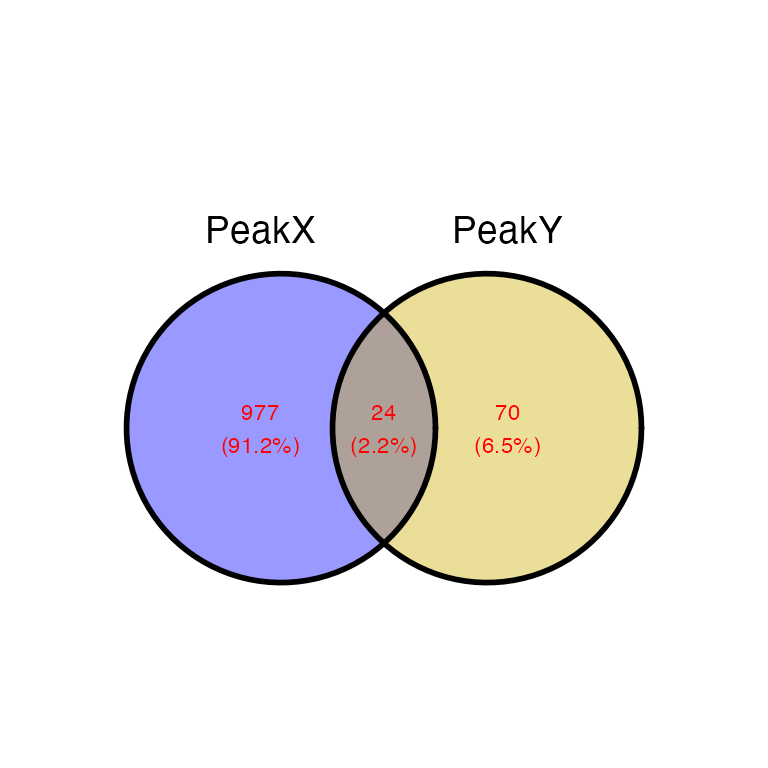
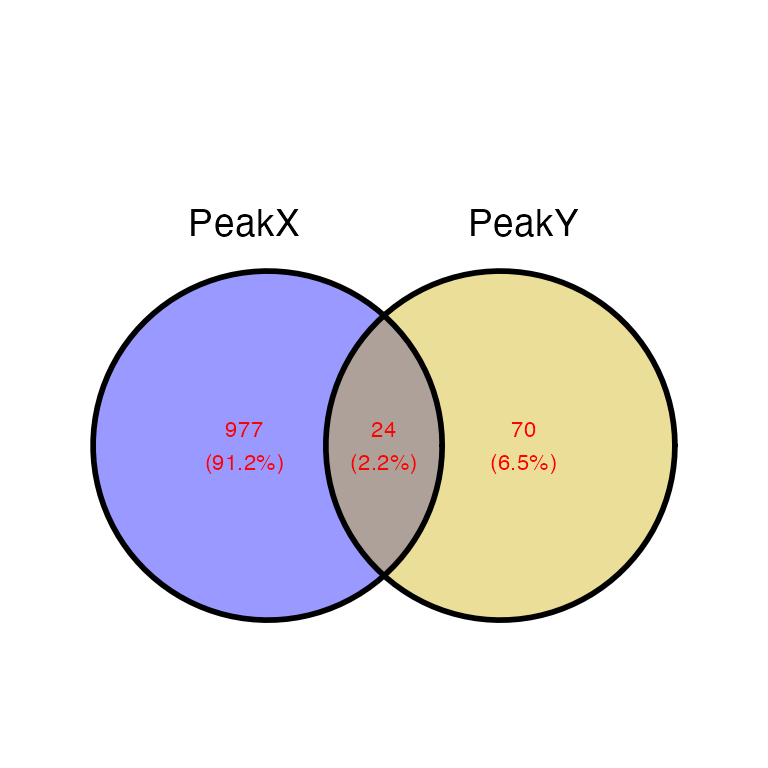
add scale option to heatmaps

diff --git a/docs/articles/08-ggVennPeaks.html b/docs/articles/08-ggVennPeaks.html
@@ -187,6 +187,8 @@
 <div class="sourceCode" id="cb7"><pre class="downlit sourceCode r">
 <code class="sourceCode R"><span class="fu"><a href="../reference/ggVennPeaks.html">ggVennPeaks</a></span><span class="op">(</span><span class="va">peak_list</span><span class="op">)</span></code></pre></div>
 <pre><code>## Using Peak as id variables</code></pre>
+<pre><code>## Scale for 'y' is already present. Adding another scale for 'y', which will
+## replace the existing scale.</code></pre>
 <p><img src="08-ggVennPeaks_files/figure-html/unnamed-chunk-6-1.png" width="384" style="display: block; margin: auto;"></p>
 </div>
 <div id="customize-plot" class="section level2">
@@ -195,66 +197,86 @@
 <div id="set-names" class="section level3">
 <h3 class="hasAnchor">
 <a href="#set-names" class="anchor"></a>Set names</h3>
-<div class="sourceCode" id="cb9"><pre class="downlit sourceCode r">
+<div class="sourceCode" id="cb10"><pre class="downlit sourceCode r">
 <code class="sourceCode R"><span class="fu"><a href="../reference/ggVennPeaks.html">ggVennPeaks</a></span><span class="op">(</span><span class="va">peak_list</span>, peak_names <span class="op">=</span> <span class="fu"><a href="https://rdrr.io/r/base/c.html">c</a></span><span class="op">(</span><span class="st">"Condition 1"</span>, <span class="st">"Condition 2"</span><span class="op">)</span><span class="op">)</span></code></pre></div>
 <pre><code>## Using Peak as id variables</code></pre>
+<pre><code>## Scale for 'y' is already present. Adding another scale for 'y', which will
+## replace the existing scale.</code></pre>
 <p><img src="08-ggVennPeaks_files/figure-html/unnamed-chunk-7-1.png" width="384" style="display: block; margin: auto;"></p>
 </div>
 <div id="title-and-subtitle" class="section level3">
 <h3 class="hasAnchor">
 <a href="#title-and-subtitle" class="anchor"></a>Title and subtitle</h3>
-<div class="sourceCode" id="cb11"><pre class="downlit sourceCode r">
+<div class="sourceCode" id="cb13"><pre class="downlit sourceCode r">
 <code class="sourceCode R"><span class="fu"><a href="../reference/ggVennPeaks.html">ggVennPeaks</a></span><span class="op">(</span><span class="va">peak_list</span>, peak_names <span class="op">=</span> <span class="fu"><a href="https://rdrr.io/r/base/c.html">c</a></span><span class="op">(</span><span class="st">"Condition 1"</span>, <span class="st">"Condition 2"</span><span class="op">)</span>, 
             title <span class="op">=</span> <span class="st">"This is a title"</span>, subtitle <span class="op">=</span> <span class="st">"This is a subtitle"</span><span class="op">)</span></code></pre></div>
 <pre><code>## Using Peak as id variables</code></pre>
+<pre><code>## Scale for 'y' is already present. Adding another scale for 'y', which will
+## replace the existing scale.</code></pre>
 <p><img src="08-ggVennPeaks_files/figure-html/unnamed-chunk-8-1.png" width="384" style="display: block; margin: auto;"></p>
 </div>
 <div id="remove-percentage" class="section level3">
 <h3 class="hasAnchor">
 <a href="#remove-percentage" class="anchor"></a>Remove percentage</h3>
-<div class="sourceCode" id="cb13"><pre class="downlit sourceCode r">
+<div class="sourceCode" id="cb16"><pre class="downlit sourceCode r">
 <code class="sourceCode R"><span class="fu"><a href="../reference/ggVennPeaks.html">ggVennPeaks</a></span><span class="op">(</span><span class="va">peak_list</span>, percent <span class="op">=</span> <span class="cn">F</span><span class="op">)</span></code></pre></div>
 <pre><code>## Using Peak as id variables</code></pre>
+<pre><code>## Scale for 'y' is already present. Adding another scale for 'y', which will
+## replace the existing scale.</code></pre>
 <p><img src="08-ggVennPeaks_files/figure-html/unnamed-chunk-9-1.png" width="384" style="display: block; margin: auto;"></p>
 </div>
 <div id="set-colors" class="section level3">
 <h3 class="hasAnchor">
 <a href="#set-colors" class="anchor"></a>Set colors</h3>
-<div class="sourceCode" id="cb15"><pre class="downlit sourceCode r">
+<div class="sourceCode" id="cb19"><pre class="downlit sourceCode r">
 <code class="sourceCode R"><span class="fu"><a href="../reference/ggVennPeaks.html">ggVennPeaks</a></span><span class="op">(</span><span class="va">peak_list</span>, in_fill <span class="op">=</span> <span class="fu"><a href="https://rdrr.io/r/base/c.html">c</a></span><span class="op">(</span><span class="st">"Green"</span>, <span class="st">"Darkred"</span><span class="op">)</span><span class="op">)</span></code></pre></div>
 <pre><code>## Using Peak as id variables</code></pre>
+<pre><code>## Scale for 'y' is already present. Adding another scale for 'y', which will
+## replace the existing scale.</code></pre>
 <p><img src="08-ggVennPeaks_files/figure-html/unnamed-chunk-10-1.png" width="384" style="display: block; margin: auto;"></p>
-<div class="sourceCode" id="cb17"><pre class="downlit sourceCode r">
+<div class="sourceCode" id="cb22"><pre class="downlit sourceCode r">
 <code class="sourceCode R"><span class="fu"><a href="../reference/ggVennPeaks.html">ggVennPeaks</a></span><span class="op">(</span><span class="va">peak_list</span>, in_fill <span class="op">=</span> <span class="fu"><a href="https://rdrr.io/r/base/c.html">c</a></span><span class="op">(</span><span class="st">"Green"</span>, <span class="st">"Darkred"</span><span class="op">)</span>, alpha <span class="op">=</span> <span class="fl">.2</span><span class="op">)</span></code></pre></div>
 <pre><code>## Using Peak as id variables</code></pre>
+<pre><code>## Scale for 'y' is already present. Adding another scale for 'y', which will
+## replace the existing scale.</code></pre>
 <p><img src="08-ggVennPeaks_files/figure-html/unnamed-chunk-11-1.png" width="384" style="display: block; margin: auto;"></p>
 </div>
 <div id="other-colors" class="section level3">
 <h3 class="hasAnchor">
 <a href="#other-colors" class="anchor"></a>Other colors</h3>
-<div class="sourceCode" id="cb19"><pre class="downlit sourceCode r">
+<div class="sourceCode" id="cb25"><pre class="downlit sourceCode r">
 <code class="sourceCode R"><span class="fu"><a href="../reference/ggVennPeaks.html">ggVennPeaks</a></span><span class="op">(</span><span class="va">peak_list</span>, out_color <span class="op">=</span> <span class="st">"blue"</span><span class="op">)</span></code></pre></div>
 <pre><code>## Using Peak as id variables</code></pre>
+<pre><code>## Scale for 'y' is already present. Adding another scale for 'y', which will
+## replace the existing scale.</code></pre>
 <p><img src="08-ggVennPeaks_files/figure-html/unnamed-chunk-12-1.png" width="384" style="display: block; margin: auto;"></p>
-<div class="sourceCode" id="cb21"><pre class="downlit sourceCode r">
+<div class="sourceCode" id="cb28"><pre class="downlit sourceCode r">
 <code class="sourceCode R"><span class="fu"><a href="../reference/ggVennPeaks.html">ggVennPeaks</a></span><span class="op">(</span><span class="va">peak_list</span>, text_color <span class="op">=</span> <span class="st">"red"</span><span class="op">)</span></code></pre></div>
 <pre><code>## Using Peak as id variables</code></pre>
+<pre><code>## Scale for 'y' is already present. Adding another scale for 'y', which will
+## replace the existing scale.</code></pre>
 <p><img src="08-ggVennPeaks_files/figure-html/unnamed-chunk-13-1.png" width="384" style="display: block; margin: auto;"></p>
-<div class="sourceCode" id="cb23"><pre class="downlit sourceCode r">
+<div class="sourceCode" id="cb31"><pre class="downlit sourceCode r">
 <code class="sourceCode R"><span class="fu"><a href="../reference/ggVennPeaks.html">ggVennPeaks</a></span><span class="op">(</span><span class="va">peak_list</span>, name_color <span class="op">=</span> <span class="fu"><a href="https://rdrr.io/r/base/c.html">c</a></span><span class="op">(</span><span class="st">"red"</span>, <span class="st">"blue"</span><span class="op">)</span><span class="op">)</span></code></pre></div>
 <pre><code>## Using Peak as id variables</code></pre>
+<pre><code>## Scale for 'y' is already present. Adding another scale for 'y', which will
+## replace the existing scale.</code></pre>
 <p><img src="08-ggVennPeaks_files/figure-html/unnamed-chunk-14-1.png" width="384" style="display: block; margin: auto;"></p>
 </div>
 <div id="text-sizes" class="section level3">
 <h3 class="hasAnchor">
 <a href="#text-sizes" class="anchor"></a>Text sizes</h3>
-<div class="sourceCode" id="cb25"><pre class="downlit sourceCode r">
+<div class="sourceCode" id="cb34"><pre class="downlit sourceCode r">
 <code class="sourceCode R"><span class="fu"><a href="../reference/ggVennPeaks.html">ggVennPeaks</a></span><span class="op">(</span><span class="va">peak_list</span>, label_size <span class="op">=</span> <span class="fl">10</span><span class="op">)</span></code></pre></div>
 <pre><code>## Using Peak as id variables</code></pre>
+<pre><code>## Scale for 'y' is already present. Adding another scale for 'y', which will
+## replace the existing scale.</code></pre>
 <p><img src="08-ggVennPeaks_files/figure-html/unnamed-chunk-15-1.png" width="384" style="display: block; margin: auto;"></p>
-<div class="sourceCode" id="cb27"><pre class="downlit sourceCode r">
+<div class="sourceCode" id="cb37"><pre class="downlit sourceCode r">
 <code class="sourceCode R"><span class="fu"><a href="../reference/ggVennPeaks.html">ggVennPeaks</a></span><span class="op">(</span><span class="va">peak_list</span>, name_size <span class="op">=</span> <span class="fl">10</span><span class="op">)</span></code></pre></div>
 <pre><code>## Using Peak as id variables</code></pre>
+<pre><code>## Scale for 'y' is already present. Adding another scale for 'y', which will
+## replace the existing scale.</code></pre>
 <p><img src="08-ggVennPeaks_files/figure-html/unnamed-chunk-16-1.png" width="384" style="display: block; margin: auto;"></p>
 </div>
 <div id="further-costumization" class="section level3">

diff --git a/docs/index.html b/docs/index.html
@@ -137,6 +137,12 @@
 <code><a href="reference/ggUpsetPeaks.html">ggUpsetPeaks()</a></code>: calls <code><a href="reference/getVennCounts.html">getVennCounts()</a></code> and draws a <code>ggplot2</code>-based UpSet plot using the Venn counts.</li>
 <li>
 <code><a href="reference/ggVennPeaks.html">ggVennPeaks()</a></code>: calls <code><a href="reference/getVennCounts.html">getVennCounts()</a></code> and draws a Venn diagram using the package <code>ggvenn</code>.</li>
+<li>
+<code><a href="reference/plotDendogram.html">plotDendogram()</a></code>: helper function to draw a dendogram for the heatmaps in <code><a href="reference/expressionHeatmap.html">expressionHeatmap()</a></code> and <code><a href="reference/expressionHeatmap2.html">expressionHeatmap2()</a></code>.</li>
+<li>
+<code><a href="reference/expressionHeatmap.html">expressionHeatmap()</a></code>: function that takes a data frame of expression data (including <em>Geneid</em>) and plots a heatmap of the selected genes. It can be any expression data, but it is better for expression values, counts, normalized counts in which the frist column is the <em>Geneid</em> and the other columns are each of the samples that are to be plotted.</li>
+<li>
+<code><a href="reference/expressionHeatmap2.html">expressionHeatmap2()</a></code>: function that takes a list of data frames with the columns <em>Geneid</em> and <em>log2FoldChange</em> (it can be another type data, such as FPKMs, but its easier to maintain the name of <em>log2FoldChange</em> since it is how it output from <code>DESeq2</code>) and plots a heatmap with the selected genes. It is better for <em>log2FoldChange</em> heatmaps in which each element in the list is a data frame that outputs from <code>DESeq2</code>.</li>
 </ul>
 </div>
 <div id="install-plotmics" class="section level2">
@@ -160,6 +166,21 @@ devtools::install_github("amitjavilaventura/plotmics")</a></code></pre>
 <h2 class="hasAnchor">
 <a href="#cite" class="anchor"></a>Cite</h2>
 <p>If you use this package, please cite <a href="https://github.com/amitjavilaventura/plotmics">this repository</a> and give it a star.</p>
+</div>
+<div id="updates" class="section level2">
+<h2 class="hasAnchor">
+<a href="#updates" class="anchor"></a>Updates</h2>
+<ul>
+<li>
+<code>v1.0.0</code>: first version.</li>
+<li>
+<code>v1.1.0</code>:
+<ul>
+<li>Rescale <code><a href="reference/ggVennPeaks.html">ggVennPeaks()</a></code> output to remove blank space around the Venn diagram.</li>
+<li>Add possibility to scale data by rows or columns in <code><a href="reference/expressionHeatmap.html">expressionHeatmap()</a></code> and <code><a href="reference/expressionHeatmap2.html">expressionHeatmap2()</a></code>.</li>
+</ul>
+</li>
+</ul>
 </div>
 </div>
   </div>

diff --git a/docs/reference/expressionHeatmap.html b/docs/reference/expressionHeatmap.html
@@ -230,11 +230,15 @@ and draws a heatmap using ggplot.</p>
     </tr>
     <tr>
       <th>legend_breaks_num</th>
-      <td><p>Numerical of length 1. The number of breaks you want in the legend. Default: 5.</p></td>
+      <td><p>Numerical of length 1. Only 'legend_scale' is NULL. The number of breaks you want in the legend. Default: 5.</p></td>
+    </tr>
+    <tr>
+      <th>legend_breaks_by</th>
+      <td><p>Numerical of length 1. Only 'legend_scale' is numerical (e.g. <code><a href='https://rdrr.io/r/base/c.html'>c(-1,1)</a></code>). The distance between the breaks of the legend. Default: .5.</p></td>
     </tr>
     <tr>
       <th>legend_midpoint</th>
-      <td><p>Numerical of length 1. Only if scale is not NULL. Point where the central color of the legend will placed. Default: 0</p></td>
+      <td><p>Numerical of length 1. Only if 'legend_scale' is not NULL. Point where the central color of the legend will placed. Default: 0</p></td>
     </tr>
     <tr>
       <th>legend_height</th>
@@ -275,6 +279,10 @@ and draws a heatmap using ggplot.</p>
     <tr>
       <th>axis_text_size</th>
       <td><p>Numerical of length 1. Size of the text in the axes. Default: 10</p></td>
+    </tr>
+    <tr>
+      <th>scale</th>
+      <td><p>Character of length 1 or NULL. One of c("rows", "cols"). If "rows", it scales data by row; if "cols", it scales data by columns; if NULL (the default), it does not scale the data. Default: NULL.</p></td>
     </tr>
     <tr>
       <th>df</th>

diff --git a/docs/reference/ggUpsetPeaks.html b/docs/reference/ggUpsetPeaks.html
@@ -161,7 +161,7 @@
     <p>Function that calls 'getVennCounts' and draws an ggplot2-based upset plot.</p>
     </div>
 
-    <pre class="usage">ggUpsetPeaks(peaks, conds = names(peaks), conds_order = cond, order_by_freq = T, num_size = 4, title = NULL, subtitle = NULL, caption = NULL</pre>
+    <pre class="usage"><span class='va'>`ggUpsetPeaks(peaks, conds = names(peaks), conds_order = cond, order_by_freq = T, num_size = 4, title = NULL, subtitle = NULL, caption = NULL)`</span></pre>
 
     <h2 class="hasAnchor" id="arguments"><a class="anchor" href="#arguments"></a>Arguments</h2>
     <table class="ref-arguments">

diff --git a/docs/reference/expressionHeatmap2.html b/docs/reference/expressionHeatmap2.html
@@ -289,6 +289,10 @@ and draws a heatmap using ggplot.</p>
       <td><p>Numerical of length 1. Size of the text in the axes. Default: 10</p></td>
     </tr>
     <tr>
+      <th>scale</th>
+      <td><p>Character of length 1 or NULL. One of c("rows", "cols"). If "rows", it scales data by row; if "cols", it scales data by columns; if NULL (the default), it does not scale the data. Default: NULL.</p></td>
+    </tr>
+    <tr>
       <th>axis_x_angle</th>
       <td><p>Numerical of length 1. Angle of the text in the X axis. Default: 90</p></td>
     </tr>

diff --git a/docs/reference/index.html b/docs/reference/index.html
@@ -219,7 +219,7 @@
       </tr><tr>
         
         <td>
-          <p><code><a href="ggUpsetPeaks.html">ggUpsetPeaks</a></code> </p>
+          <p><code><a href="ggUpsetPeaks.html">`ggUpsetPeaks(peaks, conds = names(peaks), conds_order = cond, order_by_freq = T, num_size = 4, title = NULL, subtitle = NULL, caption = NULL)`</a></code> </p>
         </td>
         <td><p>ggUpsetPeaks</p></td>
       </tr><tr>

diff --git a/README.md b/README.md
@@ -44,3 +44,6 @@ If you use this package, please cite [this repository](https://github.com/amitja
 ## Updates
 
 * `v1.0.0`: first version.
+* `v1.1.0`: 
+  + Rescale `ggVennPeaks()` output to remove blank space around the Venn diagram.
+  + Add possibility to scale (`scale()`) data by rows or columns in `expressionHeatmap()` and `expressionHeatmap2()`.
